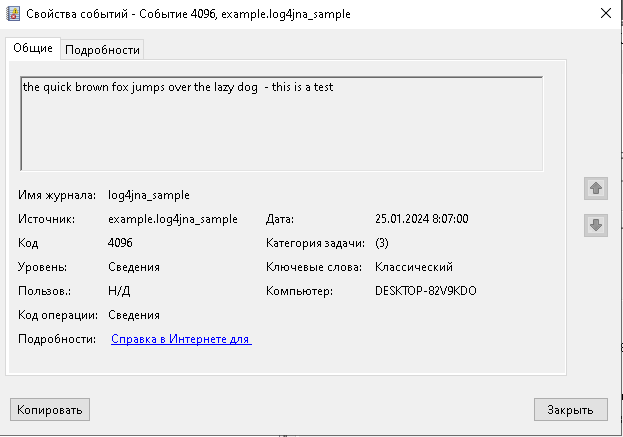
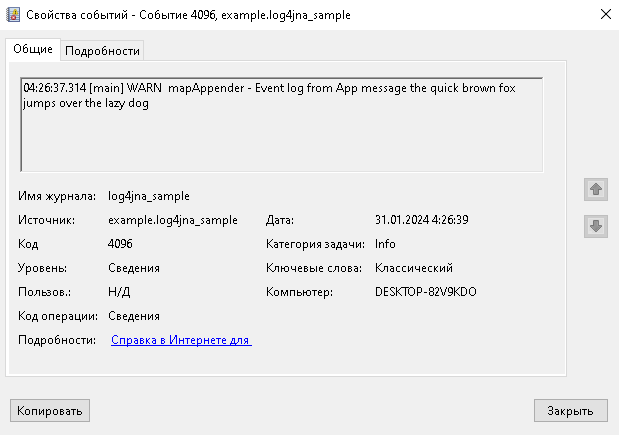
intermediate revision - added logback integration

diff --git a/basic-jna-eventlog/src/main/java/example/MapAppender.java b/basic-jna-eventlog/src/main/java/example/MapAppender.java
@@ -1,0 +1,59 @@
+package example;
+
+import ch.qos.logback.classic.spi.ILoggingEvent;
+import ch.qos.logback.core.AppenderBase;
+
+import java.io.UnsupportedEncodingException;
+import java.util.Map;
+import java.util.concurrent.ConcurrentHashMap;
+import java.util.concurrent.ConcurrentMap;
+import ch.qos.logback.core.encoder.Encoder;
+
+public class MapAppender extends AppenderBase<ILoggingEvent> {
+
+	private String prefix;
+	private Encoder encoder;
+
+	@Override
+	@SuppressWarnings("unchecked")
+	protected void append(final ILoggingEvent event) {
+		if (prefix == null || "".equals(prefix)) {
+			addError("Prefix is not set for MapAppender.");
+			return;
+		}
+
+		byte[] byteArrary = encoder.encode(event);
+		String message = "";
+		try {
+			message = new String(byteArrary, "utf-8");
+		} catch (UnsupportedEncodingException e) {
+			addError(e.toString());
+		}
+		System.err.println("DEBUG: appending event message: " + message);
+
+		String name = "EventLog";
+
+		final String server = "."; // guess
+		final String source = "example.log4jna_sample";
+		final String application = "log4jna_sample";
+		final String eventMessageFile = "src\\main\\resources\\Win32EventLogAppender.dll";
+		final String categoryMessageFile = "src\\main\\resources\\Win32EventLogAppender.dll";
+		Win32EventLogAppender appender = Win32EventLogAppender.createAppender(name,
+				server, source, application, eventMessageFile, categoryMessageFile);
+		appender.append(message);
+
+	}
+
+	public String getPrefix() {
+		return prefix;
+	}
+
+	public void setPrefix(String value) {
+		prefix = value;
+	}
+
+	public void setEncoder(Encoder encoder) {
+		this.encoder = encoder;
+	}
+
+}

diff --git a/basic-jna-eventlog/src/main/java/example/App.java b/basic-jna-eventlog/src/main/java/example/App.java
@@ -2,7 +2,13 @@ package example;
 
 import java.io.Serializable;
 
+import org.slf4j.LoggerFactory;
+
+import ch.qos.logback.classic.Logger;
+
 public class App {
+
+	static Logger logger = (Logger) LoggerFactory.getLogger("mapAppender");
 
 	public static void main(String[] args) {
 
@@ -12,16 +18,7 @@ public class App {
 			b.append(' ');
 		}
 		String message = b.toString();
-
-		String name = "EventLog";
-
-		final String server = "."; // guess
-		final String source = "example.log4jna_sample";
-		final String application = "log4jna_sample";
-		final String eventMessageFile = "src\\main\\resources\\Win32EventLogAppender.dll";
-		final String categoryMessageFile = "src\\main\\resources\\Win32EventLogAppender.dll";
-		Win32EventLogAppender appender = Win32EventLogAppender.createAppender(name,
-				server, source, application, eventMessageFile, categoryMessageFile);
-		appender.append(message);
+		logger.warn("Event log from {} message {}", App.class.getSimpleName(),
+				message);
 	}
 }

diff --git a/basic-jna-eventlog/README.md b/basic-jna-eventlog/README.md
@@ -17,6 +17,13 @@ mvn clean package
 java -jar target\example.jna_eventlog.jar the quick brown fox jumps over the lazy dog
 ```
 
+this will print to console:
+```text
+
+04:26:37.314 [main] WARN  mapAppender - Event log from App message the quick brown fox jumps over the lazy dog
+DEBUG: appending event message: 04:26:37.314 [main] WARN  mapAppender - Event log from App message the quick brown fox jumps over the lazy dog
+```
+and add Windows Event Log:
 ![Event log Message](https://github.com/sergueik/springboot_study/blob/master/basic-jna-eventlog/screenshots/capture-message.png)
 
 * verify
@@ -24,15 +31,35 @@ java -jar target\example.jna_eventlog.jar the quick brown fox jumps over the laz
 ```powershell
 get-eventlog -logname log4jna_sample -newest 1 |format-list
 ```
+reveals
+```text
+Index              : 32
+EntryType          : Information
+InstanceId         : 4096
+Message            : 04:26:37.314 [main] WARN  mapAppender - Event log from App
+                      message the quick brown fox jumps over the lazy dog
+
+Category           : Info
+CategoryNumber     : 3
+ReplacementStrings : {04:26:37.314 [main] WARN  mapAppender - Event log from Ap
+                     p message the quick brown fox jumps over the lazy dog
+                     }
+Source             : example.log4jna_sample
+TimeGenerated      : 31.01.2024 4:26:39
+TimeWritten        : 31.01.2024 4:26:39
+UserName           :
+```
+
 or  
 ```cmd
-wevtutil.exe qe   log4jna_sample /rd:true /f:text /c:1
+wevtutil.exe query-events log4jna_sample /rd:true /f:text /c:1
 ```
+reveals
 ```text
 Event[0]:
   Log Name: log4jna_sample
   Source: example.log4jna_sample
-  Date: 2024-01-25T18:02:54.0220000Z
+  Date: 2024-01-31T04:26:39.0170000Z
   Event ID: 4096
   Task: Info
   Level: Сведения
@@ -42,25 +69,12 @@ Event[0]:
   User Name: N/A
   Computer: DESKTOP-82V9KDO
   Description:
-the quick brown fox jumps over the lazy dog  - this is a test
-
+04:26:37.314 [main] WARN  mapAppender - Event log from App message the quick brown fox jumps over the lazy dog
 ```
-reveals
-```text
-Index              : 26
-EntryType          : Information
-InstanceId         : 4096
-Message            : the quick brown fox jumps over the lazy dog  - this is a test
-Category           : Info
-CategoryNumber     : 3
-ReplacementStrings : {the quick brown fox jumps over the lazy dog  - this is a  test}
-Source             : example.log4jna_sample
-TimeGenerated      : 25.01.2024 8:07:00
-TimeWritten        : 25.01.2024 8:07:00
-UserName           :
-
+### Cleanup
+```cmd
+wevtutil.exe clear-log log4jna_sample
 ```
-
 ### Author
 [Serguei Kouzmine](kouzmine_serguei@yahoo.com)
 
